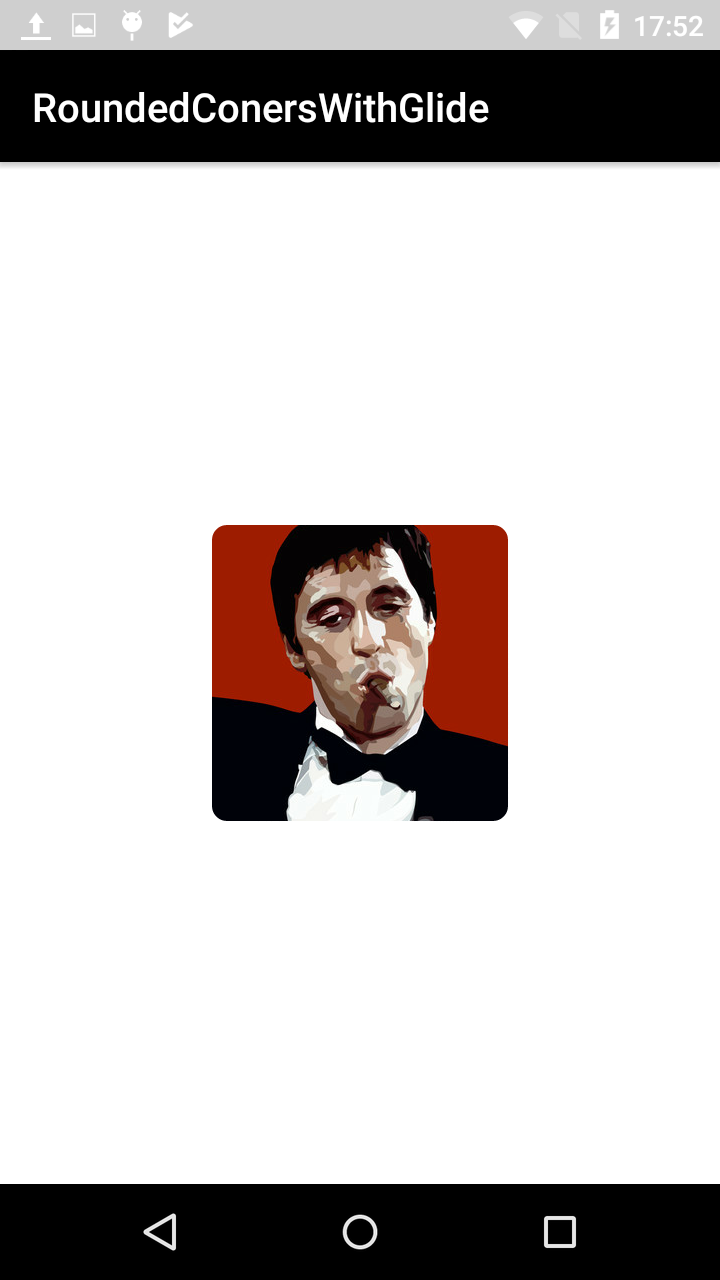
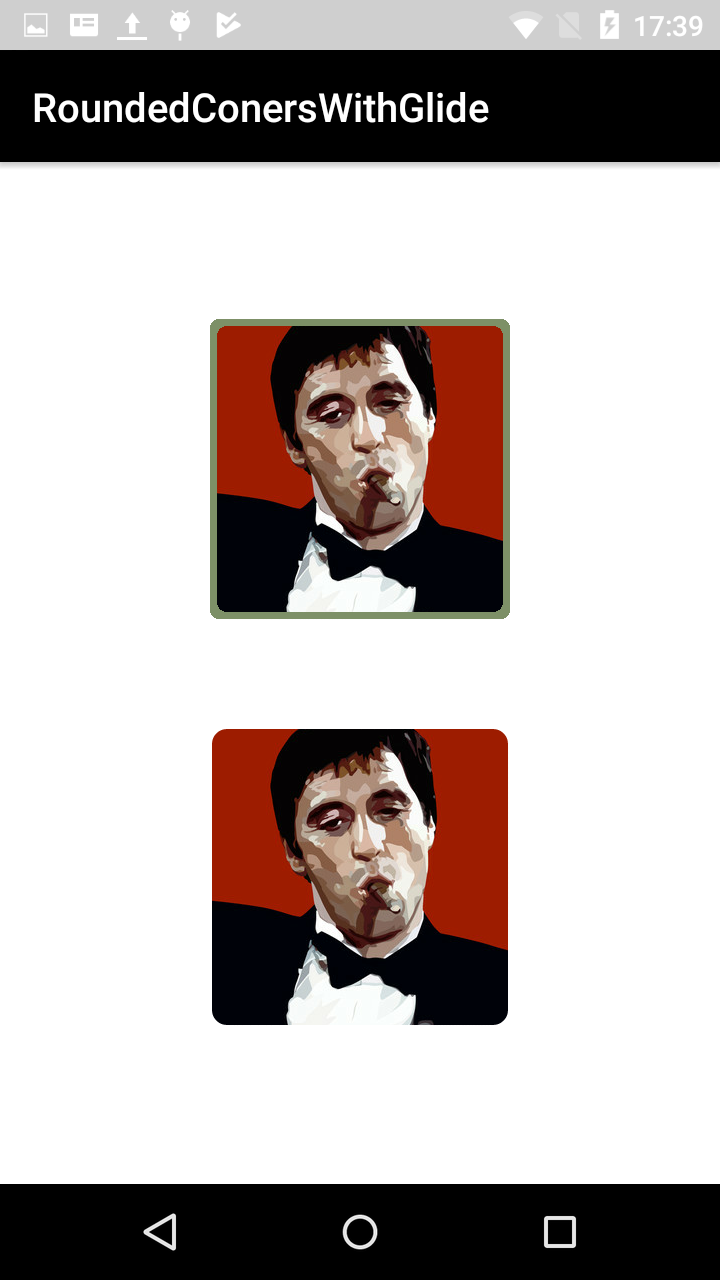
added border with color

diff --git a/app/src/main/java/com/thedeveloperworldisyours/roundedconerswithglide/RoundedCornersTransformation.java b/app/src/main/java/com/thedeveloperworldisyours/roundedconerswithglide/RoundedCornersTransformation.java
@@ -4,6 +4,7 @@ import android.content.Context;
 import android.graphics.Bitmap;
 import android.graphics.BitmapShader;
 import android.graphics.Canvas;
+import android.graphics.Color;
 import android.graphics.Paint;
 import android.graphics.RectF;
 import android.graphics.Shader;
@@ -27,7 +28,7 @@ public class RoundedCornersTransformation implements Transformation<Bitmap> {
         TOP_LEFT, TOP_RIGHT, BOTTOM_LEFT, BOTTOM_RIGHT,
         TOP, BOTTOM, LEFT, RIGHT,
         OTHER_TOP_LEFT, OTHER_TOP_RIGHT, OTHER_BOTTOM_LEFT, OTHER_BOTTOM_RIGHT,
-        DIAGONAL_FROM_TOP_LEFT, DIAGONAL_FROM_TOP_RIGHT
+        DIAGONAL_FROM_TOP_LEFT, DIAGONAL_FROM_TOP_RIGHT, BORDER
     }
 
     private BitmapPool mBitmapPool;
@@ -35,9 +36,17 @@ public class RoundedCornersTransformation implements Transformation<Bitmap> {
     private int mDiameter;
     private int mMargin;
     private CornerType mCornerType;
+    private String mColor;
+    private int mBorder;
 
     public RoundedCornersTransformation(Context context, int radius, int margin) {
         this(context, radius, margin, CornerType.ALL);
+    }
+
+    public RoundedCornersTransformation(Context context, int radius, int margin, String color, int border) {
+        this(context, radius, margin, CornerType.BORDER);
+        mColor = color;
+        mBorder = border;
     }
 
     public RoundedCornersTransformation(BitmapPool pool, int radius, int margin) {
@@ -59,7 +68,7 @@ public class RoundedCornersTransformation implements Transformation<Bitmap> {
     }
 
     @Override
-    public Resource<Bitmap> transform(Context context,Resource<Bitmap> resource, int outWidth, int outHeight) {
+    public Resource<Bitmap> transform(Context context, Resource<Bitmap> resource, int outWidth, int outHeight) {
         Bitmap source = resource.get();
 
         int width = source.getWidth();
@@ -127,6 +136,9 @@ public class RoundedCornersTransformation implements Transformation<Bitmap> {
                 break;
             case DIAGONAL_FROM_TOP_RIGHT:
                 drawDiagonalFromTopRightRoundRect(canvas, paint, right, bottom);
+                break;
+            case BORDER:
+                drawBorder(canvas, paint, right, bottom);
                 break;
             default:
                 canvas.drawRoundRect(new RectF(mMargin, mMargin, right, bottom), mRadius, mRadius, paint);
@@ -238,6 +250,26 @@ public class RoundedCornersTransformation implements Transformation<Bitmap> {
         canvas.drawRect(new RectF(mMargin, mMargin, right - mRadius, bottom - mRadius), paint);
         canvas.drawRect(new RectF(mMargin + mRadius, mMargin + mRadius, right, bottom), paint);
     }
+
+    private void drawBorder(Canvas canvas, Paint paint, float right,
+                            float bottom) {
+
+        // stroke
+        Paint strokePaint = new Paint();
+        strokePaint.setStyle(Paint.Style.STROKE);
+        if (mColor != null) {
+            strokePaint.setColor(Color.parseColor(mColor));
+        } else {
+            strokePaint.setColor(Color.BLACK);
+        }
+        strokePaint.setStrokeWidth(mBorder);
+
+        canvas.drawRoundRect(new RectF(mMargin, mMargin, right, bottom), mRadius, mRadius, paint);
+
+        // stroke
+        canvas.drawRoundRect(new RectF(mMargin, mMargin, right, bottom), mRadius, mRadius, strokePaint);
+    }
+
 
     @Override
     public void updateDiskCacheKey(MessageDigest messageDigest) {

diff --git a/app/src/main/java/com/thedeveloperworldisyours/roundedconerswithglide/MainActivity.java b/app/src/main/java/com/thedeveloperworldisyours/roundedconerswithglide/MainActivity.java
@@ -15,8 +15,14 @@ public class MainActivity extends AppCompatActivity {
     public static int sCorner = 15;
     public static int sMargin = 2;
 
+    public static int sBorder = 10;
+    public static String sColor = "#7D9067";
+
     @BindView(R.id.imageView)
     ImageView mImageView;
+
+    @BindView(R.id.imageViewBorder)
+    ImageView mImageViewBorder;
 
     @Override
     protected void onCreate(Bundle savedInstanceState) {
@@ -25,6 +31,7 @@ public class MainActivity extends AppCompatActivity {
 
         ButterKnife.bind(this);
 
-        Glide.with(this).load("http://thedeveloperworldisyours.com/wp-content/uploads/scareface.jpeg").apply(RequestOptions.bitmapTransform(new RoundedCornersTransformation( this,sCorner, sMargin))).into(mImageView);
+        Glide.with(this).load("http://thedeveloperworldisyours.com/wp-content/uploads/scareface.jpeg").apply(RequestOptions.bitmapTransform(new RoundedCornersTransformation(this, sCorner, sMargin))).into(mImageView);
+        Glide.with(this).load("http://thedeveloperworldisyours.com/wp-content/uploads/scareface.jpeg").apply(RequestOptions.bitmapTransform(new RoundedCornersTransformation(this, sCorner, sMargin, sColor, sBorder))).into(mImageViewBorder);
     }
 }
